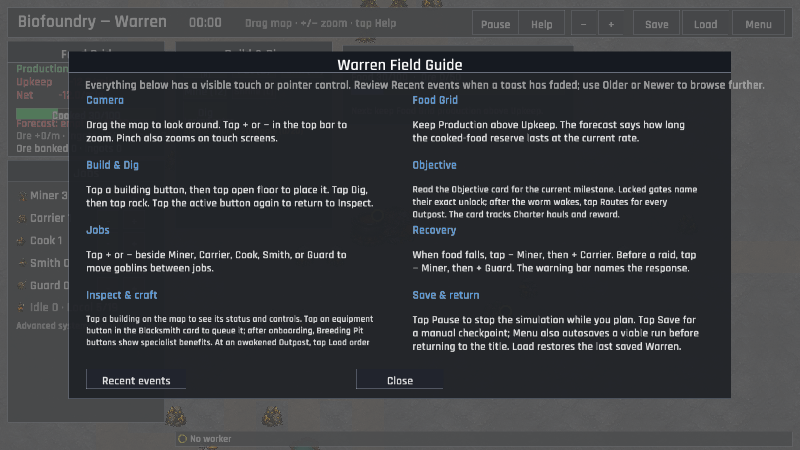
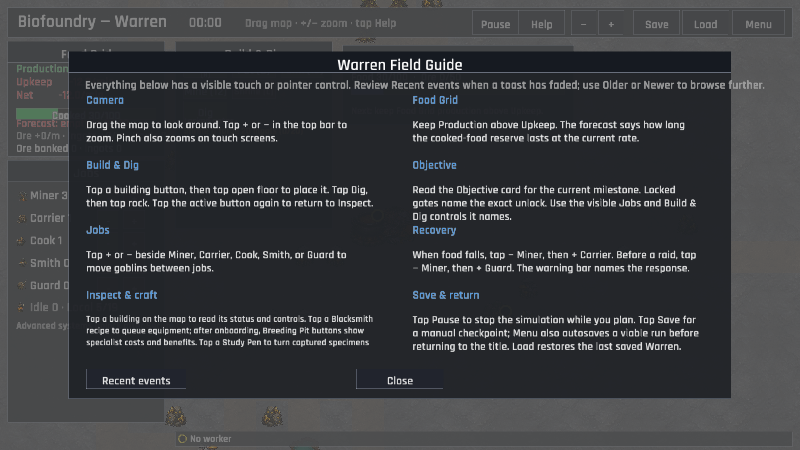
The field guide changes voice when the worm wakes (contextual help)
The revisitable guide put the core warren and every late-game route system into two long paragraphs. At the compact viewport those paragraphs clipped before the player reached their useful controls, weakening the recovery surface it was meant to provide.

The guide now keeps inspection, Blacksmith, Breeding Pit, and Study Pen instructions concise before awakening, then switches to a compact Endless routes section after the worm wakes. The Objective section follows the same context boundary. Both states have focused tests and 800x450 captures, the capture and touch-audit harnesses cover the new scene, and the 505-test suite, clippy, and Preview publish pass.

Changed region(s): [[0.5, 0.4044, 0.875, 0.4978], [0.0938, 0.6844, 0.4688, 0.7778]]

diff --git a/src/ui/hud/overlays.rs b/src/ui/hud/overlays.rs
@@ -12,9 +12,13 @@ use macroquad_toolkit::prelude::*;
 use macroquad_toolkit::ui::draw_ui_text_ex;
 
 const INSPECT_HELP_BODY: &str =
-    "Tap a building on the map to see its status and controls. In Endless, build a Rest Hollow to add local room when the warren crowds. Tap an equipment button in the Blacksmith card to queue it; after onboarding, Breeding Pit buttons show specialist benefits. Tap a Study Pen to turn captured specimens into observation, unlock stronger Beetle Haulers, and shorten future Breeding Pit hatch cycles. At an awakened Outpost, tap Load order for cargo priority, Crew per run for cargo-only or scout counts, then Load to send food and crew to scout for ore; pause scouting to protect provisions, use the cargo-only return to bring ore home while keeping scouts remote, turn on Auto-load · Cargo + crew to launch ready outbound runs, turn on Auto-return · Cargo only for full holds, turn on Auto-resupply · Food only when remote scouts need provisions, and tap Routes · Cycle order to choose which ready automatic job gets the shared Worm first. After that, expand the hold and camp with banked ingots, install a survey rig to increase ore per scout, then tune its resonance beacon to shorten survey cycles and keep scouting to log repeatable Archive pages for ingots. The first page unlocks the stronger Archive Wayfinder carrier recipe at the Blacksmith; after that, use Routes to run the Worm Road Relay across two active Outposts, run the repeatable Worm Road Convoy across three active routes, hold four active routes for the Worm Road Muster, station a Wormsong carrier, miner, smith, and guard for the Concord reward, then carry complete Wormsong crews on two active routes for the Circuit reward, keep three complete routes singing for the optional Wormsong Chorus, install a Signal Cache for ingots on later hauls, and add a Worm Road Waypoint to shorten transit.";
+    "Tap a building on the map to read its status and controls. Tap a Blacksmith recipe to queue equipment; after onboarding, Breeding Pit buttons show specialist costs and benefits. Tap a Study Pen to turn captured specimens into observation.";
 const OBJECTIVE_HELP_BODY: &str =
-    "Read the Objective card for the current milestone. Locked gates name their exact unlock; after the worm wakes, tap Routes for every Outpost. The card tracks Charter hauls, claimed Archive pages, the Archive Wayfinder payoff from the first page, the Worm Road Relay, repeatable Worm Road Convoy contracts, the Worm Road Muster network goal, the Wormsong Concord for all four remote roles, the two-route Wormsong Circuit, the optional three-route Wormsong Chorus and its live haul payoff, the Signal Cache payoff, the Worm Road Waypoint transit payoff, the shared-Worm automatic dispatch order, the next route target, and local room from Rest Hollows when Endless crowding returns.";
+    "Read the Objective card for the current milestone. Locked gates name the exact unlock. Use the visible Jobs and Build & Dig controls it names.";
+const ENDLESS_INSPECT_HELP_BODY: &str =
+    "At an awakened Outpost, tap Load order and Crew per run, then Load. Pause scouting to protect food; return cargo while keeping remote crew. Tap Routes to plan multiple runs.";
+const ENDLESS_OBJECTIVE_HELP_BODY: &str =
+    "After the worm wakes, the Objective points to Routes, cargo, crew, upgrades, contracts, and shared-Worm dispatch order. Tap Routes to inspect the network.";
 const FIELD_GUIDE_INTRO: &str =
     "Everything below has a visible touch or pointer control. Review Recent events when a toast has faded; use Older or Newer to browse further.";
 pub(super) const LOAD_CONFIRMATION_TEXT: &str =
@@ -251,11 +255,8 @@ pub(super) fn draw_help_overlay(
     let left = panel.x + 28.0;
     let right = panel.x + 550.0;
     let recovery_body = recovery_guide_body(session, data);
-    let inspect_help_body = format!(
-        "{INSPECT_HELP_BODY} Keep a complete Wormsong crew scouting for repeatable Encore rewards."
-    );
-    let objective_help_body =
-        format!("{OBJECTIVE_HELP_BODY} The repeatable Wormsong Encore follows the Circuit.");
+    let (inspect_title, inspect_help_body) = field_guide_inspect_content(session.worm_awake);
+    let objective_help_body = field_guide_objective_content(session.worm_awake);
     for (x, title, body, y) in [
         (
             left,
@@ -277,8 +278,8 @@ pub(super) fn draw_help_overlay(
         ),
         (
             left,
-            "Inspect & craft",
-            inspect_help_body.as_str(),
+            inspect_title,
+            inspect_help_body,
             478.0,
         ),
         (
@@ -290,7 +291,7 @@ pub(super) fn draw_help_overlay(
         (
             right,
             "Objective",
-            objective_help_body.as_str(),
+            objective_help_body,
             270.0,
         ),
         (
@@ -431,6 +432,22 @@ pub(super) fn draw_event_log_overlay(
 
 fn event_log_page_count(history_len: usize) -> usize {
     history_len.div_ceil(EVENTS_PER_PAGE).max(1)
+}
+
+fn field_guide_inspect_content(worm_awake: bool) -> (&'static str, &'static str) {
+    if worm_awake {
+        ("Endless routes", ENDLESS_INSPECT_HELP_BODY)
+    } else {
+        ("Inspect & craft", INSPECT_HELP_BODY)
+    }
+}
+
+fn field_guide_objective_content(worm_awake: bool) -> &'static str {
+    if worm_awake {
+        ENDLESS_OBJECTIVE_HELP_BODY
+    } else {
+        OBJECTIVE_HELP_BODY
+    }
 }
 
 fn event_log_page_bounds(history_len: usize, page: usize) -> (usize, usize) {

diff --git a/src/ui/hud/overlays/tests.rs b/src/ui/hud/overlays/tests.rs
@@ -58,31 +58,34 @@ fn field_guide_explains_breeding_specialists() {
     assert!(INSPECT_HELP_BODY.contains("Breeding Pit"));
     assert!(INSPECT_HELP_BODY.contains("after onboarding"));
     assert!(INSPECT_HELP_BODY.contains("benefits"));
-    assert!(INSPECT_HELP_BODY.contains("Rest Hollow"));
-    assert!(INSPECT_HELP_BODY.contains("Load order"));
+    assert!(INSPECT_HELP_BODY.contains("Study Pen"));
 }
 
 #[test]
-fn field_guide_points_to_post_campaign_cargo_runs() {
-    assert!(OBJECTIVE_HELP_BODY.contains("worm wakes"));
-    assert!(OBJECTIVE_HELP_BODY.contains("tap Routes"));
-    assert!(OBJECTIVE_HELP_BODY.contains("Outpost"));
-    assert!(OBJECTIVE_HELP_BODY.contains("Archive"));
-    assert!(INSPECT_HELP_BODY.contains("scout for ore"));
-    assert!(INSPECT_HELP_BODY.contains("Auto-resupply · Food only"));
-    assert!(INSPECT_HELP_BODY.contains("Auto-load · Cargo + crew"));
-    assert!(INSPECT_HELP_BODY.contains("expand the hold and camp"));
-    assert!(INSPECT_HELP_BODY.contains("install a survey rig"));
-    assert!(INSPECT_HELP_BODY.contains("resonance beacon"));
-    assert!(INSPECT_HELP_BODY.contains("Archive pages"));
-    assert!(INSPECT_HELP_BODY.contains("Archive Wayfinder"));
-    assert!(INSPECT_HELP_BODY.contains("Worm Road Relay"));
-    assert!(INSPECT_HELP_BODY.contains("Signal Cache"));
-    assert!(INSPECT_HELP_BODY.contains("Worm Road Waypoint"));
-    assert!(OBJECTIVE_HELP_BODY.contains("first page"));
-    assert!(OBJECTIVE_HELP_BODY.contains("Worm Road Relay"));
-    assert!(OBJECTIVE_HELP_BODY.contains("Signal Cache"));
-    assert!(OBJECTIVE_HELP_BODY.contains("Waypoint"));
+fn field_guide_switches_to_compact_post_campaign_guidance() {
+    let (title, body) = field_guide_inspect_content(true);
+    assert_eq!(title, "Endless routes");
+    assert!(body.contains("Load order"));
+    assert!(body.contains("Pause scouting"));
+    assert!(body.contains("remote crew"));
+
+    let objective = field_guide_objective_content(true);
+    assert!(objective.contains("Routes"));
+    assert!(objective.contains("upgrades"));
+    assert!(objective.contains("shared-Worm"));
+}
+
+#[test]
+fn field_guide_keeps_core_guidance_before_the_worm_wakes() {
+    let (title, body) = field_guide_inspect_content(false);
+    assert_eq!(title, "Inspect & craft");
+    assert!(body.contains("Blacksmith recipe"));
+    assert!(!body.contains("awakened Outpost"));
+
+    let objective = field_guide_objective_content(false);
+    assert!(objective.contains("Jobs"));
+    assert!(objective.contains("Build & Dig"));
+    assert!(!objective.contains("shared-Worm"));
 }
 
 #[test]

diff --git a/src/game/capture_scenes.rs b/src/game/capture_scenes.rs
@@ -699,6 +699,7 @@ pub(super) fn begin(game: &mut Game, scene: &str) {
             game.checkpoint_warning = Some(super::persistence::save_recovery_failure_banner());
         }
         "help" => overlays::help(game),
+        "help_endless" => overlays::help_endless(game),
         "event_log" => overlays::event_log(game),
         "event_log_older" => overlays::event_log_older(game),
         "pause" => overlays::pause(game),

diff --git a/src/game/capture_scenes/overlays.rs b/src/game/capture_scenes/overlays.rs
@@ -11,6 +11,12 @@ pub(super) fn help(game: &mut Game) {
     }
 }
 
+pub(super) fn help_endless(game: &mut Game) {
+    super::begin(game, "endless");
+    game.help_open = true;
+    game.paused = true;
+}
+
 pub(super) fn event_log(game: &mut Game) {
     help(game);
     game.event_log_open = true;

diff --git a/docs/phase-one/CANDIDATE_VERIFICATION.md b/docs/phase-one/CANDIDATE_VERIFICATION.md
@@ -103,7 +103,7 @@ automated simulation results into first-time-player evidence.
 ## Automated candidate checks
 
 - `cargo fmt -- --check` — pass.
-- `cargo test --all-targets` — 504 unit tests and 2 integration/code-standard
+- `cargo test --all-targets` — 505 unit tests and 2 integration/code-standard
   targets pass,
   including fresh/simulated/remote-transit valid sessions, modal route
   planning, rejected malformed save shapes, and event-history save/load
@@ -888,11 +888,12 @@ automated simulation results into first-time-player evidence.
   keeps the revisitable guide truthful for the current workforce: a fresh
   warren sees the enabled `− Miner, then + Carrier/Guard` recovery paths, and
   specialist-only states receive a `free a worker` fallback instead of a
-  disabled assignment. The same guide now points to the Breeding Pit for
-  specialist unlocks, costs, and benefits after onboarding, and to the Outpost
-  for optional cargo runs after the worm wakes. Its visible `Recent events`
-  action opens the new notification-history surface shown in
-  [ui_event_log.png](../verification/ui_event_log.png); the compact
+  disabled assignment. Before the worm wakes, the guide keeps its core
+  inspection, Blacksmith, Breeding Pit, and Study Pen instructions concise;
+  after awakening it changes the same section to short Outpost load, scouting,
+  remote-crew, and Routes guidance in [ui_help_endless.png](../verification/ui_help_endless.png).
+  Its visible `Recent events` action opens the new notification-history surface
+  shown in [ui_event_log.png](../verification/ui_event_log.png); the compact
   [ui_compact_event_log.png](../verification/ui_compact_event_log.png) probe
   keeps the same review and close actions on-canvas.
 - Persistent notification history — pass; `GameSession` carries the bounded
